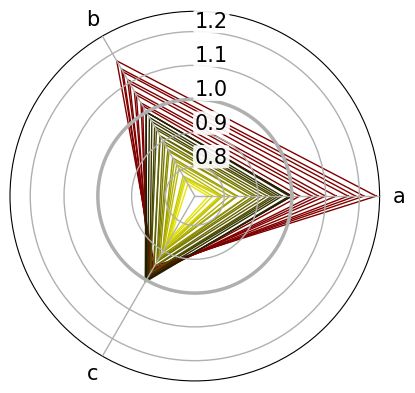
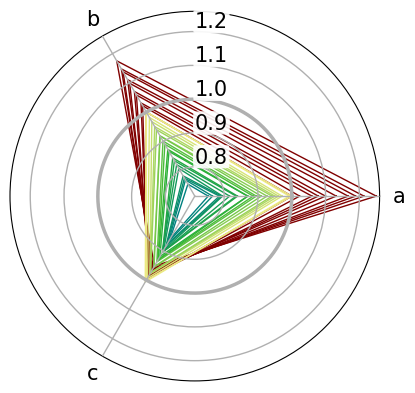
Allow defining gradients with colors and slicing gradients w/new syntax

Changed region(s): [[0.347, 0.2748, 0.694, 0.7328]]

diff --git a/chard.py b/chard.py
@@ -1,9 +1,10 @@
 from argparse import ArgumentParser, Namespace
+from collections import deque
 from dataclasses import dataclass
-from itertools import cycle
+from itertools import cycle, islice
 from pathlib import Path
 import os
-from typing import List, Union
+from typing import Any, Callable, Iterable, List, Union
 
 import matplotlib.pyplot as plt
 from matplotlib.colors import Colormap, LinearSegmentedColormap, to_rgb,\
@@ -16,6 +17,24 @@ import pandas as pd
 
 
 PathLike = Union[str, bytes, os.PathLike]
+
+
+def does_not_throw(value: Any, fun: Callable, exception: Exception) -> bool:
+    try:
+        _ = fun(value)
+    except exception:  # noqa
+        return False
+    else:
+        return True
+
+
+def pairwise(it: Iterable):
+    """Iterate `it` pairwise, e.g. (1, 2, 3, 4) -> (1, 2), (2, 3), (3, 4)"""
+    it = iter(it)
+    window = deque(islice(it, 1), maxlen=2)
+    for x in it:
+        window.append(x)
+        yield tuple(window)
 
 
 def safe_normalize(array: np.ndarray) -> np.ndarray:
@@ -106,6 +125,99 @@ class ChardSeries:
         return cm(e)
 
 
+class ColormapGenerator:
+    """This class generates colormaps based on descriptors for ChardAxes"""
+    DEFAULT_COLORS = cycle(plt.rcParams['axes.prop_cycle'].by_key()['color'])
+    SEPARATOR = ':'
+
+    @staticmethod
+    def _is_int(s: str) -> bool:
+        return does_not_throw(s, int, ValueError)
+
+    @staticmethod
+    def _is_mpl_color(s: str) -> bool:
+        return does_not_throw(s, to_rgb, ValueError)
+
+    @staticmethod
+    def _is_mpl_colormap(s: str) -> bool:
+        return does_not_throw(s, plt.get_cmap, ValueError)
+
+    class ColormapGeneratorException(Exception):
+        pass
+
+    def _join_colormaps(self,
+                        colormaps: List[LinearSegmentedColormap],
+                        start: float = 0.0,
+                        stop: float = 1.0
+                        ) -> LinearSegmentedColormap:
+        colors = [colormaps[0](0.0)]
+        for cm in colormaps:
+            colors.extend(list(cm(np.linspace(0., 1., 256)[1:])))
+        start_index = min(max(0, int(start * len(colors))), len(colors))
+        stop_index = min(max(0, int(stop * len(colors))), len(colors))
+        color_stack = np.vstack(colors[start_index:stop_index])
+        return LinearSegmentedColormap.from_list('', color_stack)
+
+    def _split_colormap_descriptor(self, s: str) -> List[str]:
+        """Recursively split `descriptor` into valid color(map) or int parts"""
+        if self._is_int(s) or self._is_mpl_color(s) or self._is_mpl_colormap(s):
+            return [s]
+        else:
+            sep_positions = [i for i, c in enumerate(s) if c == self.SEPARATOR]
+            for sep_pos in sep_positions:
+                try:
+                    return [*self._split_colormap_descriptor(s[:sep_pos]),
+                            *self._split_colormap_descriptor(s[sep_pos+1:])]
+                except self.ColormapGeneratorException:
+                    pass
+        raise self.ColormapGeneratorException(f'Could not interpret "{s}"')
+
+    def generate_colormap(self, descriptor: str) -> Colormap:
+        """
+        Generate a colormap given `descriptor`. The definition of
+        the descriptor can be complex and utilize the following objects:
+        - mpl 1 color name (C) - this will generate uniform 1-color colormap;
+        - mpl colormap name (CM) - this will get named mpl colormap;
+        Additionally, multiple mpl colors can be juxtaposed to make a colormap:
+        - 'C:C' - this will generate 2-color hsv gradient from 1st to 2nd C;
+        - 'C:C:C' - this will generate 3-color hsv gradient 1-2-3 C etc.;
+        Each of the gradients described above can be then sliced using
+        'gradient:start_percent:stop_percent' notation.
+        Some examples of the accepted notation are listed below:
+        - 'viridis:25:75' will yield the central half of the 'viridis' palette;
+        - 'red:lime:blue:red' will generate a circular rainbow palette;
+        - '#ff0000:#0000ff:0:50' will generate the first half of the red-blue
+          spectrum; you can then use the second half for another ChARd series.
+        """
+        if not descriptor:
+            default = next(self.DEFAULT_COLORS)
+            desc_parts = [default]
+        else:
+            desc_parts = self._split_colormap_descriptor(descriptor)
+        desc_range = []
+        while self._is_int(desc_parts[-1]):
+            desc_range.insert(0, float(desc_parts.pop()) / 100)
+        if not desc_range:
+            desc_range = [0.0, 1.0]
+        colormaps = []
+        if len(desc_parts) == 1:
+            if self._is_mpl_color(desc_parts[0]):
+                desc_parts.append(desc_parts[0])
+            if self._is_mpl_colormap(desc_parts[0]):
+                colormaps = [plt.get_cmap(desc_parts[0])]
+        for dp1, dp2 in pairwise(desc_parts):
+            if self._is_mpl_colormap(dp1):
+                colormaps.append(plt.get_cmap(dp1))
+            elif self._is_mpl_color(dp1) and self._is_mpl_color(dp2):
+                hsv1 = rgb_to_hsv(to_rgb(dp1))
+                hsv2 = rgb_to_hsv(to_rgb(dp2))
+                hsv_space = np.linspace(hsv1, hsv2, 256, axis=1).T
+                rgb_space = np.vstack([hsv_to_rgb(hsv) for hsv in hsv_space])
+                cm = LinearSegmentedColormap.from_list('', rgb_space)
+                colormaps.append(cm)
+        return self._join_colormaps(colormaps, desc_range[0], desc_range[1])
+
+
 class ChardAxes(PolarAxes):
     """A mix between Polar/Radial axes, with fixed 3 variables to plot"""
     name = 'chard'
@@ -118,6 +230,7 @@ class ChardAxes(PolarAxes):
         super().__init__(*args, **kwargs)
         super().plot(np.linspace(0, 2*np.pi, 720), np.ones(720), linewidth=2.5,
                      color=plt.rcParams['grid.color'], zorder=2.4)
+        self.colormap_generator = ColormapGenerator()
         self.set_theta_zero_location('E')
         self.set_thetagrids(np.degrees(self.THETA), ['a', 'b', 'c'],
                             fontsize=self.FONT_SIZE)
@@ -142,7 +255,7 @@ class ChardAxes(PolarAxes):
                     color: str = None,
                     **kwargs) -> List[Line2D]:
         """Plot a series of y data, where y in 3xN- and emphasis is N-shaped"""
-        colors = cs.colors(cm=self.generate_colormap(color))
+        colors = cs.colors(cm=self.colormap_generator.generate_colormap(color))
         lines = []
         for abc, color in zip(cs.abc, colors):
             line = self.plot(abc, **kwargs)[0]
@@ -172,21 +285,21 @@ class ChardAxes(PolarAxes):
             line.set_data(x, y)
         return lines
 
-    def generate_colormap(self, color_or_colormap_name):
-        """Get mpl colormap or prepare one centered around provided color"""
-        try:
-            cmap = plt.get_cmap(name=color_or_colormap_name)
-        except ValueError:
-            try:
-                hsv = rgb_to_hsv(to_rgb(color_or_colormap_name))
-            except KeyError:
-                hsv = next(self.DEFAULT_COLORS)
-            v_max_span = min([hsv[2], 1 - hsv[2]])
-            hsv0 = [hsv[0], hsv[1], hsv[2] - 0.8 * v_max_span]
-            hsv1 = [hsv[0], hsv[1], hsv[2] + 0.8 * v_max_span]
-            rgb_limits = [hsv_to_rgb(hsv0), hsv_to_rgb(hsv1)]
-            cmap = LinearSegmentedColormap.from_list('', rgb_limits)
-        return cmap
+    # def generate_colormap(self, color_or_colormap_name):
+    #     """Get mpl colormap or prepare one centered around provided color"""
+    #     try:
+    #         cmap = plt.get_cmap(name=color_or_colormap_name)
+    #     except ValueError:
+    #         try:
+    #             hsv = rgb_to_hsv(to_rgb(color_or_colormap_name))
+    #         except KeyError:
+    #             hsv = next(self.DEFAULT_COLORS)
+    #         v_max_span = min([hsv[2], 1 - hsv[2]])
+    #         hsv0 = [hsv[0], hsv[1], hsv[2] - 0.8 * v_max_span]
+    #         hsv1 = [hsv[0], hsv[1], hsv[2] + 0.8 * v_max_span]
+    #         rgb_limits = [hsv_to_rgb(hsv0), hsv_to_rgb(hsv1)]
+    #         cmap = LinearSegmentedColormap.from_list('', rgb_limits)
+    #     return cmap
 
 
 register_projection(ChardAxes)

diff --git a/README.md b/README.md
@@ -29,7 +29,8 @@ once for each ChARd series:
 
 - `-i`, `--input` - Path to input file with a single series to plot;
 - `-s`, `--sheet` - If importing from spreadsheet, name of the sheet with data;
-- `-c`, `--color` - Color or colormap to be used for plotting series;
+- `-c`, `--color` - Color, colon-separated series of colors, or colormap
+  to be used for plotting series, can be sliced (see docstring for full desc.);
 - `-n`, `--normalizer` - Index or values to normalize abc to, if needed;
   `0` will normalize to 1st entry,
   while `12.4,6.5,30.4` will normalize to these values.
@@ -74,7 +75,7 @@ row (`-n 0`), and the width of plotted lines is slightly increased (`-w 1.5`).
 ### Example 3 – ChARd plot with multiple series
 
     python chard.py -i examples/raw.csv -c "#800000" -e p -n "-1" \
-                    -i examples/named.csv -c olive -e p -n 0 \
+                    -i examples/named.csv -c khaki:teal -e p -n 0 \
                     -o images/combined.png
 
 While the previous plots were prepared using a single series each,
@@ -83,10 +84,10 @@ multiple times. As a result, this plot is based on data from both
 [examples/raw.csv](examples/raw.csv) and
 [examples/named.csv](examples/named.csv).
 The first dataset is drawn in dark red given with a hex code (`-c "#800000"`),
-while the second one is centered around matplotlib color "olive" (`-c olive`).
-The emphasis on both plots comes from column "p" (`-e p`):
-this information is naturally absent in the raw dataset,
-hence all red lines share the hue.
+while the second one is drawn in colors spanning from "khaki" to "teal"
+(`-c khaki:teal`). The emphasis on both plots comes from column "p" (`-e p`),
+though this information is naturally absent in the first "raw" dataset
+which features no "p"-named column.
 Finally, the unit cell parameters are normalized to the last value in `raw.csv`
 (`-n "-1"`) and to the first value in `named.csv` (`-n 0`).
 
